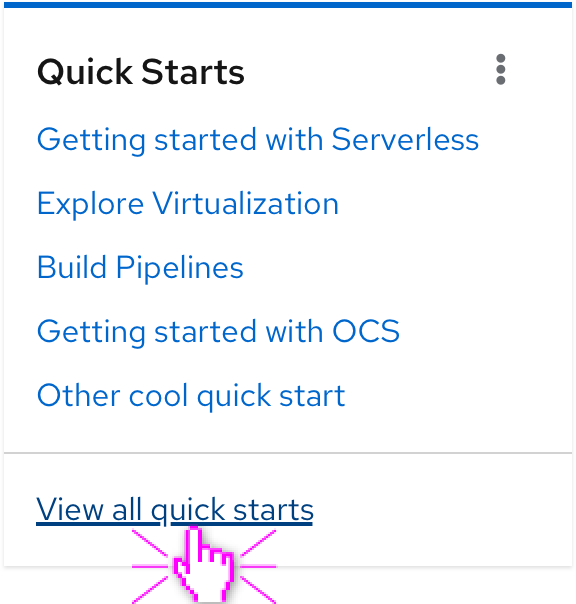
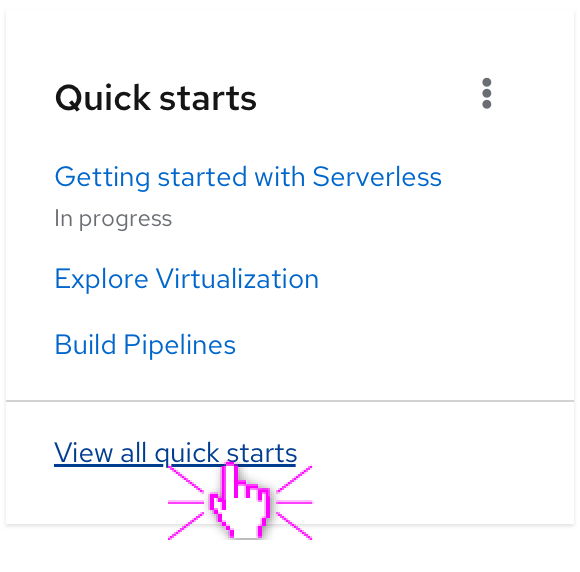
updating images

diff --git a/designs/administrator/future-openshift/getting-started-short-term/index.md b/designs/administrator/future-openshift/getting-started-short-term/index.md
@@ -5,7 +5,10 @@ version: 4.7
 
 # Getting started short-term enhancements
 
-The short-term enhancement to the getting started experience will add a quick starts card to the Cluster Overview dashboard that lists existing quick starts. This card will be dynamically updated as new quick starts are added. There will be 5 max shown at once and the newest additions will be added to the top of the list. 
+The short-term enhancement to the getting started experience will add a quick starts card to the Cluster Overview dashboard that lists existing quick starts. This card will be dynamically updated as new quick starts are added. There will be 3 max shown at once. The order of the quick starts will be as follows:
+  -  In progress quick starts
+  -  Newest quick starts added to the console
+Completed quick starts will not be shown on the card. If the user has completed all quick starts, the card will automatically be hidden. 
 
 ![quickstart-card](img/quickstart-card.png)
 
